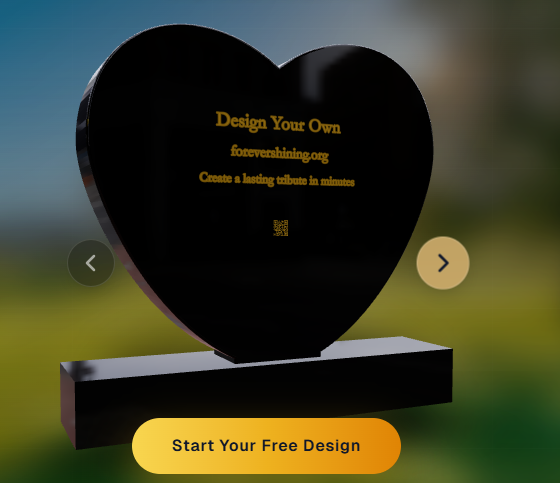
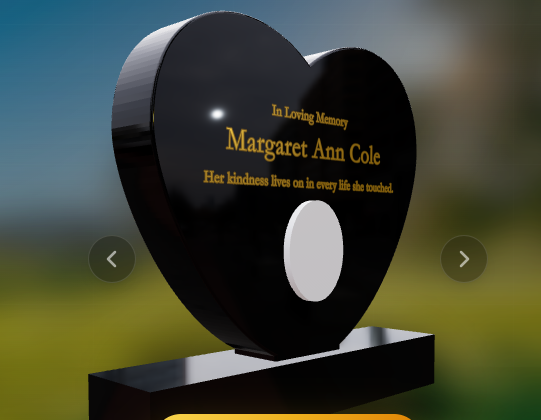
Home Page fixes

diff --git a/components/HeroCanvas.tsx b/components/HeroCanvas.tsx
@@ -95,6 +95,128 @@ interface GoldMotifProps {
   scale?: number | [number, number, number];
 }
 
+interface HeroCeramicImageProps {
+  position: [number, number, number];
+  imageUrl: string;
+  maskPath?: string;
+  width: number;
+  height: number;
+}
+
+const HeroCeramicImage: React.FC<HeroCeramicImageProps> = ({
+  position,
+  imageUrl,
+  maskPath = '/shapes/masks/oval_horizontal.svg',
+  width,
+  height,
+}) => {
+  const svgData = useLoader(SVGLoader, maskPath);
+  const photoTexture = useTexture(imageUrl);
+
+  useMemo(() => {
+    if (photoTexture) {
+      photoTexture.colorSpace = THREE.SRGBColorSpace;
+      photoTexture.wrapS = THREE.ClampToEdgeWrapping;
+      photoTexture.wrapT = THREE.ClampToEdgeWrapping;
+      photoTexture.anisotropy = 16;
+      photoTexture.needsUpdate = true;
+    }
+  }, [photoTexture]);
+
+  const shapeData = useMemo(() => {
+    const paths = svgData?.paths ?? [];
+    if (!paths.length) return null;
+    const shapes = paths.flatMap((path) => path.toShapes(true));
+    if (!shapes.length) return null;
+
+    const photoGeometry = new THREE.ShapeGeometry(shapes, 64);
+    const ceramicGeometry = new THREE.ExtrudeGeometry(shapes, {
+      depth: 0.0046,
+      bevelEnabled: true,
+      bevelThickness: 0.00115,
+      bevelSize: 0.00115,
+      bevelSegments: 4,
+      curveSegments: 64,
+    });
+
+    photoGeometry.computeBoundingBox();
+    const bounds = photoGeometry.boundingBox;
+    if (!bounds) {
+      photoGeometry.dispose();
+      ceramicGeometry.dispose();
+      return null;
+    }
+
+    const shapeWidth = bounds.max.x - bounds.min.x;
+    const shapeHeight = bounds.max.y - bounds.min.y;
+    const centerX = (bounds.min.x + bounds.max.x) / 2;
+    const centerY = (bounds.min.y + bounds.max.y) / 2;
+
+    const positions = photoGeometry.getAttribute('position');
+    const uvs = new Float32Array(positions.count * 2);
+    for (let i = 0; i < positions.count; i += 1) {
+      const x = positions.getX(i);
+      const y = positions.getY(i);
+      const u = (x - bounds.min.x) / shapeWidth;
+      const v = (y - bounds.min.y) / shapeHeight;
+      uvs[i * 2] = u;
+      uvs[i * 2 + 1] = v;
+    }
+    photoGeometry.setAttribute('uv', new THREE.Float32BufferAttribute(uvs, 2));
+
+    photoGeometry.translate(-centerX, -centerY, 0);
+    ceramicGeometry.translate(-centerX, -centerY, 0);
+
+    return { photoGeometry, ceramicGeometry, shapeWidth, shapeHeight };
+  }, [svgData]);
+
+  React.useEffect(() => {
+    return () => {
+      shapeData?.photoGeometry.dispose();
+      shapeData?.ceramicGeometry.dispose();
+    };
+  }, [shapeData]);
+
+  if (!shapeData) return null;
+
+  const { photoGeometry, ceramicGeometry, shapeWidth, shapeHeight } = shapeData;
+  const scaleX = width / shapeWidth;
+  const scaleY = height / shapeHeight;
+  const ceramicBorder = 1.05;
+
+  return (
+    <group position={position}>
+      <mesh
+        geometry={ceramicGeometry}
+        scale={[scaleX * ceramicBorder, scaleY * ceramicBorder, 1]}
+        renderOrder={8}
+        castShadow
+        receiveShadow
+      >
+        <meshStandardMaterial color="#f3f3f3" roughness={0.2} metalness={0.05} />
+      </mesh>
+
+      <mesh
+        geometry={photoGeometry}
+        position={[0, 0, 0.0072]}
+        scale={[scaleX, scaleY, 1]}
+        renderOrder={9}
+        castShadow
+        receiveShadow
+      >
+        <meshBasicMaterial
+          map={photoTexture}
+          transparent
+          side={THREE.DoubleSide}
+          polygonOffset
+          polygonOffsetFactor={-1}
+          polygonOffsetUnits={-1}
+        />
+      </mesh>
+    </group>
+  );
+};
+
 const GoldMotif: React.FC<GoldMotifProps> = ({ position, rotation = [0, 0, 0], scale = 1 }) => {
   const svgData = useLoader(SVGLoader, '/shapes/motifs/hero_qr_forevershining.svg');
 
@@ -287,14 +409,14 @@ const SceneContent = ({ targetRotation }: { targetRotation: number }) => {
         
         <group position={[0, 0, 0]}>
           <GoldText
-            position={[0, BASE_HEIGHT + STONE_HEIGHT * 0.62, textZ]}
+            position={[0, BASE_HEIGHT + STONE_HEIGHT * 0.755, textZ]}
             fontSize={0.11}
             text="In Loving Memory"
             font="/fonts/Garamond.ttf"
           />
           
           <GoldText
-            position={[0, BASE_HEIGHT + STONE_HEIGHT * 0.52, textZ]}
+            position={[0, BASE_HEIGHT + STONE_HEIGHT * 0.655, textZ]}
             fontSize={0.22}
             text="Margaret Ann Cole"
             font="/fonts/Garamond.ttf"
@@ -302,10 +424,18 @@ const SceneContent = ({ targetRotation }: { targetRotation: number }) => {
           />
           
           <GoldText
-            position={[0, BASE_HEIGHT + STONE_HEIGHT * 0.42, textZ]}
+            position={[0, BASE_HEIGHT + STONE_HEIGHT * 0.555, textZ]}
             fontSize={0.11}
             text="Her kindness lives on in every life she touched."
             font="/fonts/Garamond.ttf"
+          />
+
+          <HeroCeramicImage
+            position={[0, BASE_HEIGHT + STONE_HEIGHT * 0.32, textZ + 0.008]}
+            imageUrl="/jpg/photos/vitreous-enamel-image.jpg"
+            maskPath="/shapes/masks/oval_horizontal.svg"
+            width={0.58}
+            height={0.74}
           />
 
           <group

diff --git a/STARTER.md b/STARTER.md
@@ -1,6 +1,6 @@
 # Next-DYO (Design Your Own) Headstone Application
 
-**Last Updated:** 2026-03-20
+**Last Updated:** 2026-03-21
 **Tech Stack:** Next.js 15.5.7, React 19, Three.js, R3F (React Three Fiber), Zustand, TypeScript, Tailwind CSS, PostgreSQL (local PostgreSQL + remote home.pl PostgreSQL)
 
 ---
@@ -28,6 +28,37 @@
 20. [Memory Management](#memory-management)
 21. [Common Issues & Solutions](#common-issues--solutions)
 22. [Development Workflow](#development-workflow)
+
+---
+
+## Current Status (2026-03-21)
+
+### ✅ Recent Changes (March 21, 2026)
+
+1. **Home hero headstone front layout updated for ceramic-photo showcase - COMPLETE**
+   - Inscriptions on the front of the hero headstone were moved upward to create dedicated space below for a photo insert.
+   - **File**: `components/HeroCanvas.tsx`.
+
+2. **Hero photo switched from flat rectangle to masked ceramic/enamel style - COMPLETE**
+   - Replaced the temporary rectangular photo plane with a dedicated `HeroCeramicImage` renderer in `HeroCanvas`.
+   - The hero image now uses the existing oval mask asset (`/shapes/masks/oval_horizontal.svg`) and SVG-based shape geometry, so the photo no longer shows a rectangular white background around the oval.
+   - Added ceramic-style base geometry + front photo layering to mirror the Designer ceramic image look-and-feel in the homepage hero.
+   - **File**: `components/HeroCanvas.tsx`.
+
+3. **Hero ceramic/photo visual tuning pass based on screenshot feedback - COMPLETE**
+   - Reduced over-deep ceramic extrusion from the first implementation pass, then adjusted it upward by ~15% for a more natural enamel depth.
+   - Fixed missing/unstable photo rendering by adding explicit UV generation for the mask-shaped photo geometry.
+   - Increased photo offset and added polygon offset material settings to reduce z-fighting/flashing and detail loss while rotating.
+   - Applied a second inscription upward nudge after visual check.
+   - **File**: `components/HeroCanvas.tsx`.
+
+4. **Validation status for this batch**
+   - `pnpm build --no-lint` succeeded after each hero update slice in this session (initial placement, ceramic-mask conversion, depth/UV fix, and final polish pass).
+
+### ⚠ Known Gaps (March 21, 2026)
+- **TypeScript baseline**: `pnpm type-check` still fails because of unrelated existing issues, including `app/_internal/_data.ts`, `app/_ui/HomeSplash.tsx`, `app/api/motifs/db/route.ts`, `app/select-motifs/_ui/MotifSelectionGrid.tsx`, and multiple `archive/*` files.
+- **Lint baseline**: `pnpm lint` remains unusable because the repository is on ESLint 9 without a matching `eslint.config.*` migration.
+- **Saved Design 2 (`1578016189116`) still not resolved**: Remaining issue still appears to be loader interpretation and/or missing non-text asset hydration, not simply “needs reconversion”.
 
 ---
 
